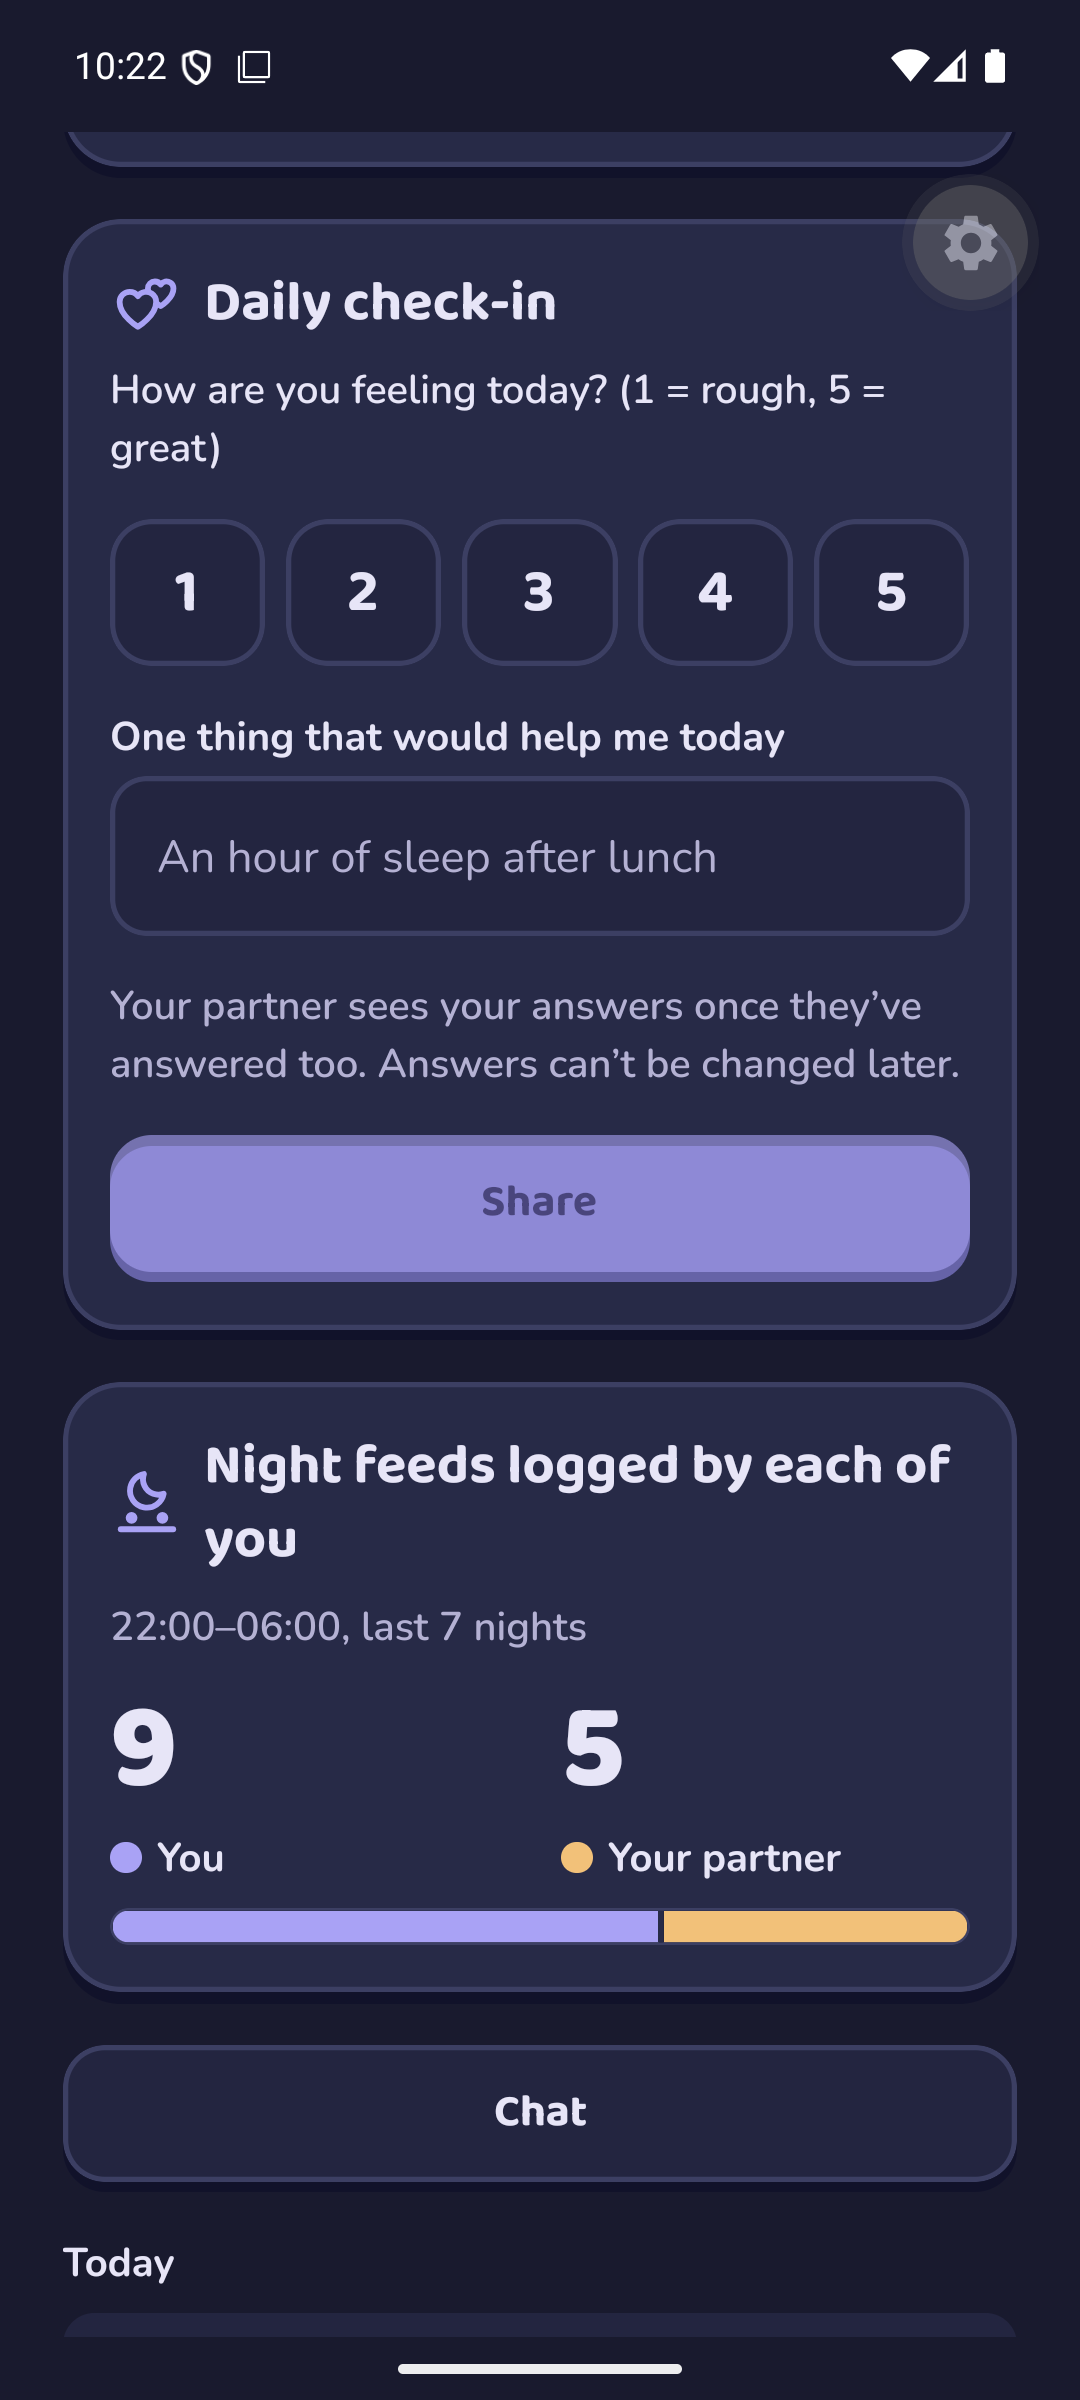
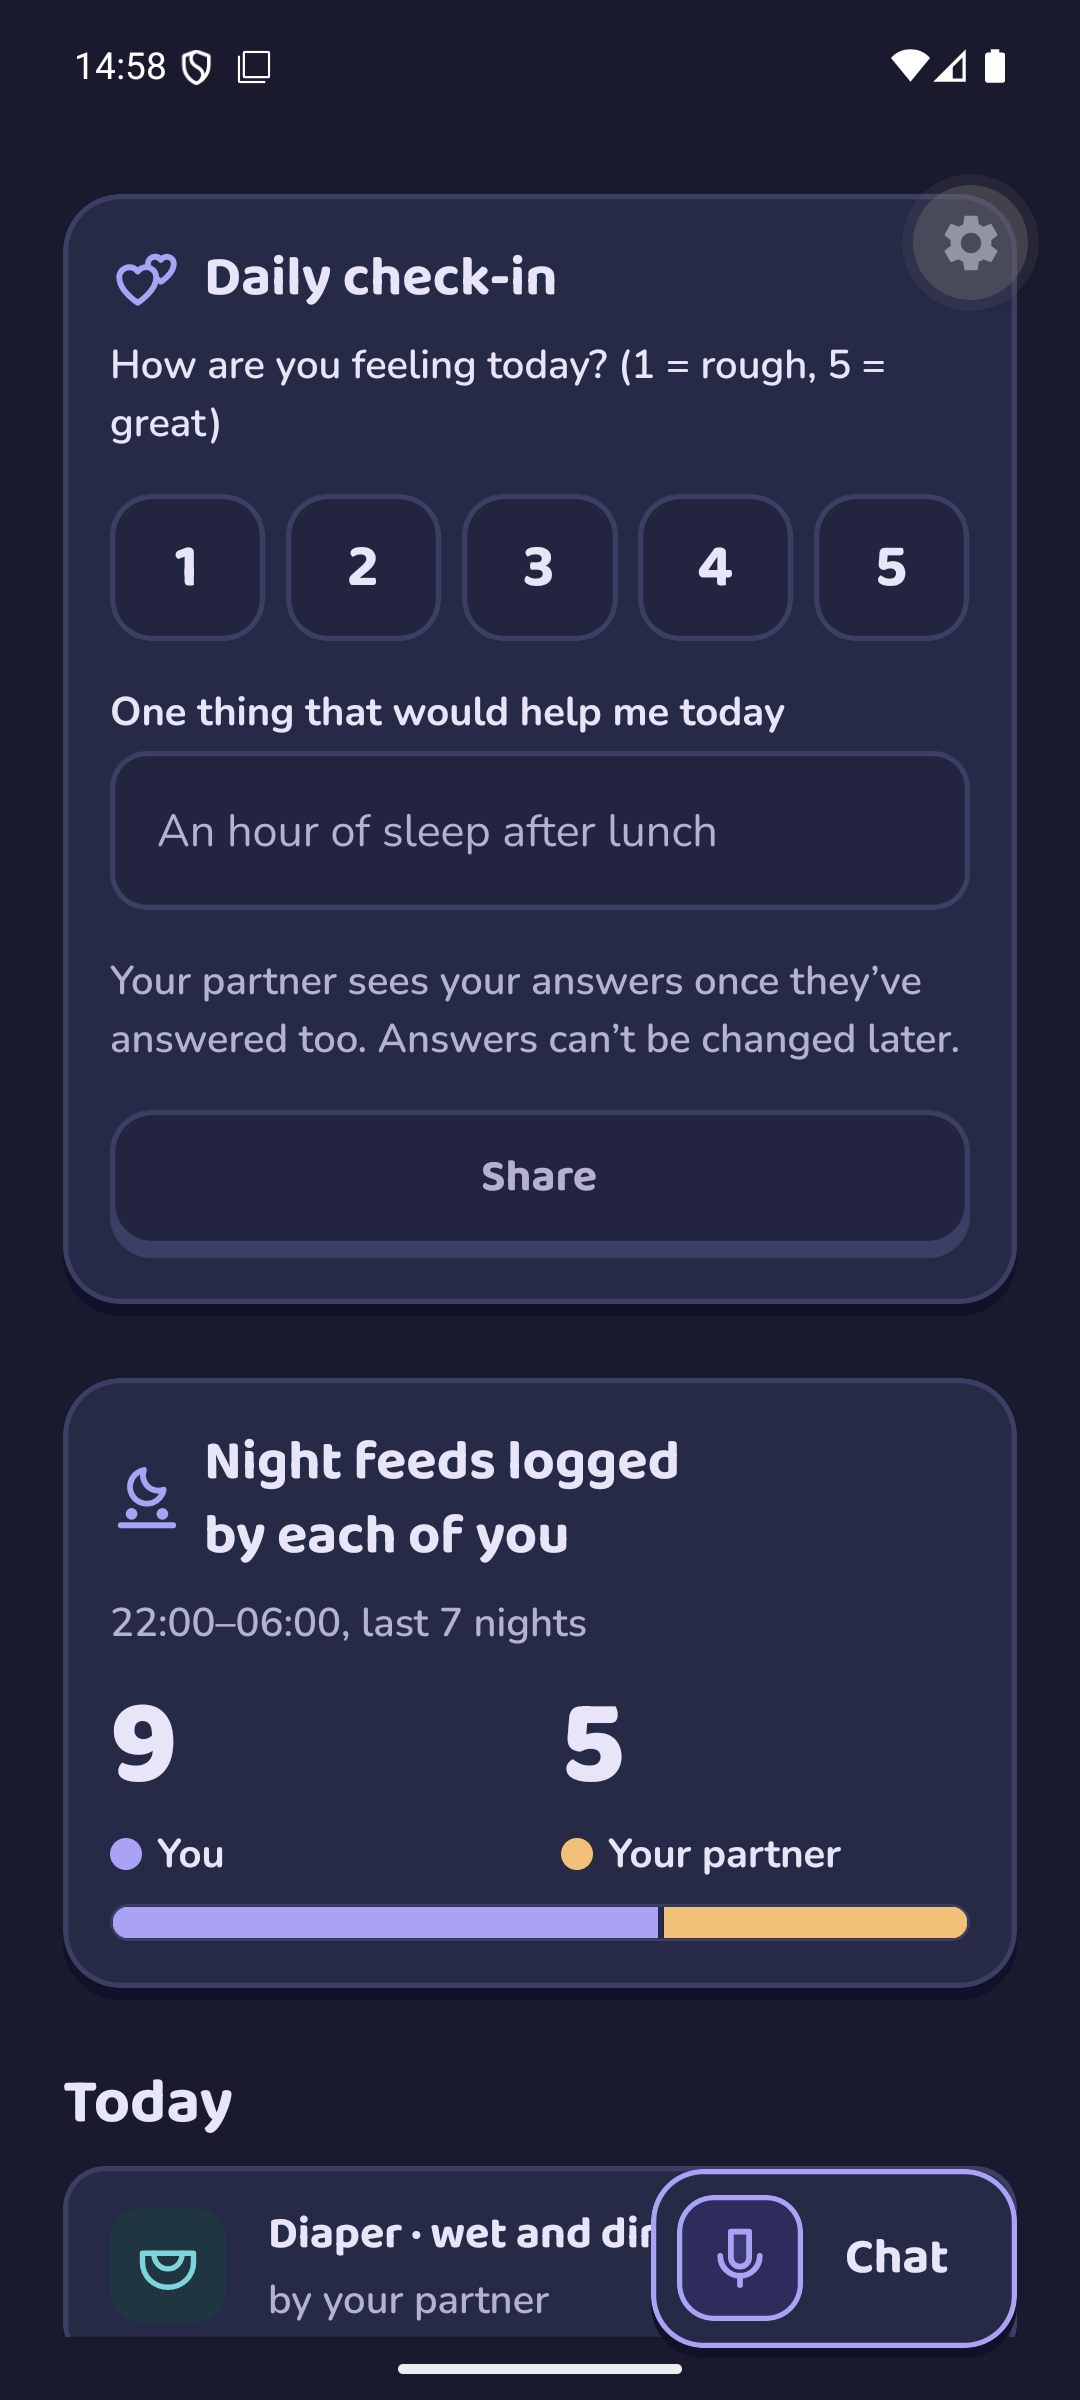
docs: re-sign-in after seeding; fix-round decisions and screenshots
seed-demo resets the demo passwords, which ends existing sessions: the
predict failures and the sign-out seen during review came from that.

diff --git a/docs/design/decisions.md b/docs/design/decisions.md
@@ -176,3 +176,8 @@ font scale ≥ 1.6 the diaper tiles overlapped the check-in card. Fixed in the f
 - **Accessibility text** changed in three places without visible copy changes (night-feed summary,
   timeline row order "title, time", Next up tiles as one stop with ", earliest"): accepted as
   improvements; visible copy stays frozen.
+- Fix-round details: disabled primary and tint buttons use a `surface` fill, `border` outline and shelf
+  and a `textSecondary` label (no opacity), still announced as disabled. `FormScreen` is folded into the
+  shared `Screen` (KeyboardAvoidingView 'height' on Android, `top` prop). The reminder row is the switch:
+  label "Reminders", the visible sentence as its hint. A wrapped "overdue" drops its "·" and sits on its
+  own line. Titles and basis lines use balanced line breaks. In light, the mic's outline is `primary`.

diff --git a/docs/demo.md b/docs/demo.md
@@ -4,7 +4,10 @@ Under 3 minutes. Two Android phones side by side, signed in as **Mom** and **Dad
 the same baby.
 
 **Before every rehearsal and the recording:** run `seed-demo`, so the log, the windows
-and the check-in start from the same state each time.
+and the check-in start from the same state each time. **Then sign in again on both phones**
+(seed-demo resets the demo passwords, which ends existing sessions): until the old access
+token expires the log still loads, but Next up shows "Couldn't load what's next", and within
+the hour the app signs out.
 
 ```sh
 # scripts/seed-demo/.env from .env.example (gitignored): URL, service-role key, two demo logins
